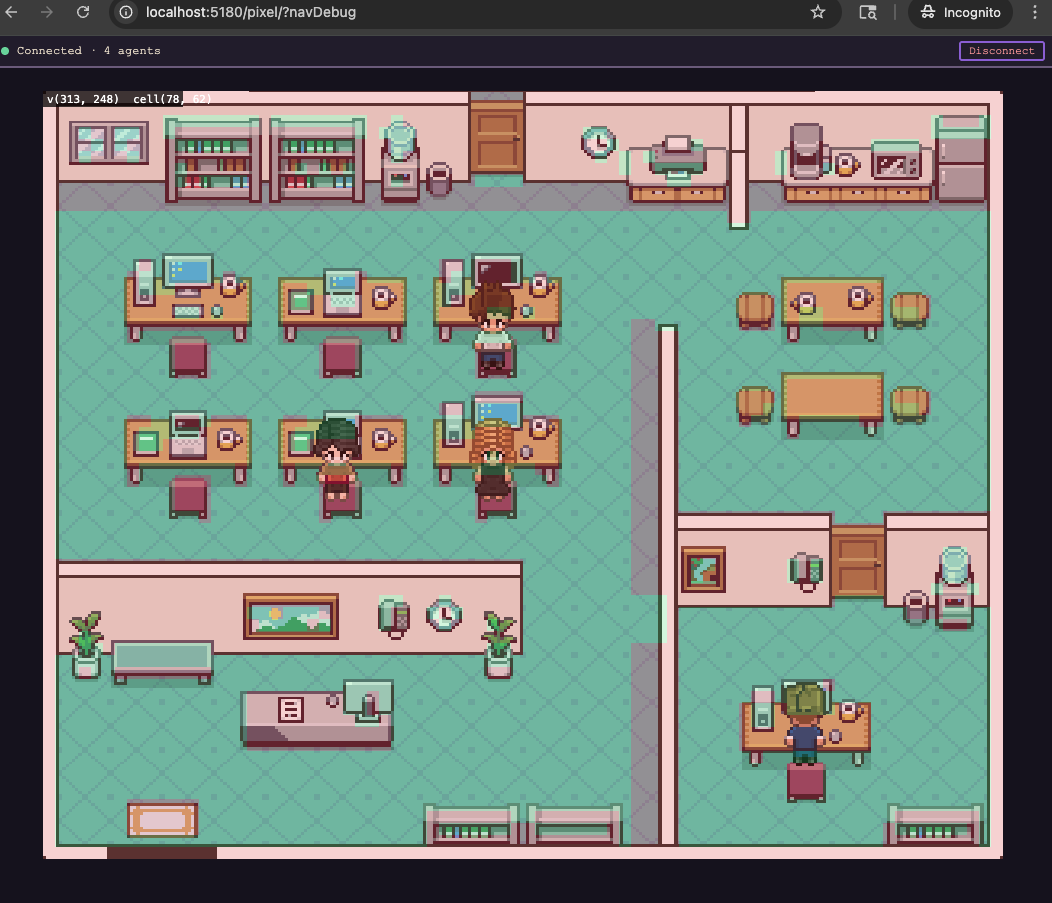
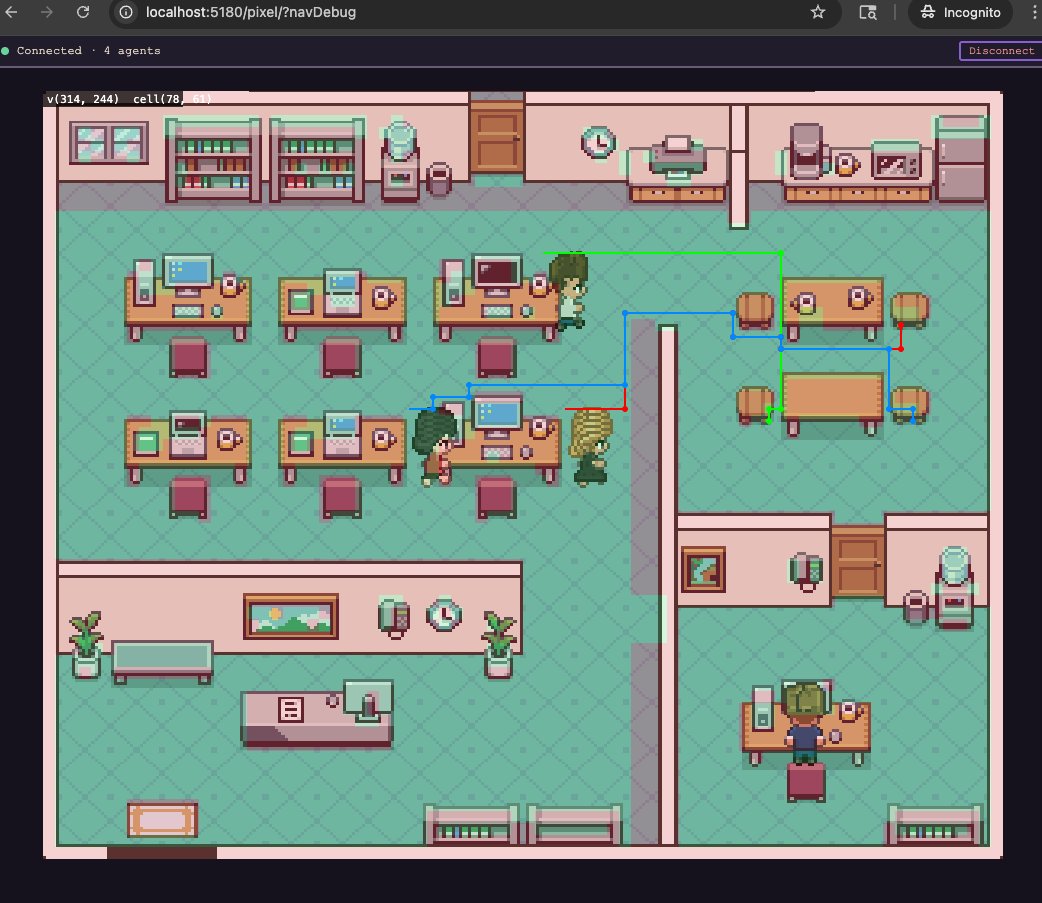
Add navDebug description to README, update screenshot

diff --git a/README.md b/README.md
@@ -6,6 +6,8 @@ A pixel-art RPG-style office visualization for [OpenClaw](https://openclaw.dev) 
 
 ![Pixel Claw office view](docs/pixel.png)
 
+Add `?navDebug` to the URL to reveal the image-derived walkability grid — every teal floor pixel becomes a walkable cell, furniture and walls are blocked, and you can watch agents' BFS pathfinding routes light up in real time as they navigate between rooms.
+
 ![Navigation debug overlay](docs/pixel_navDebug.png)
 
 ## Features
